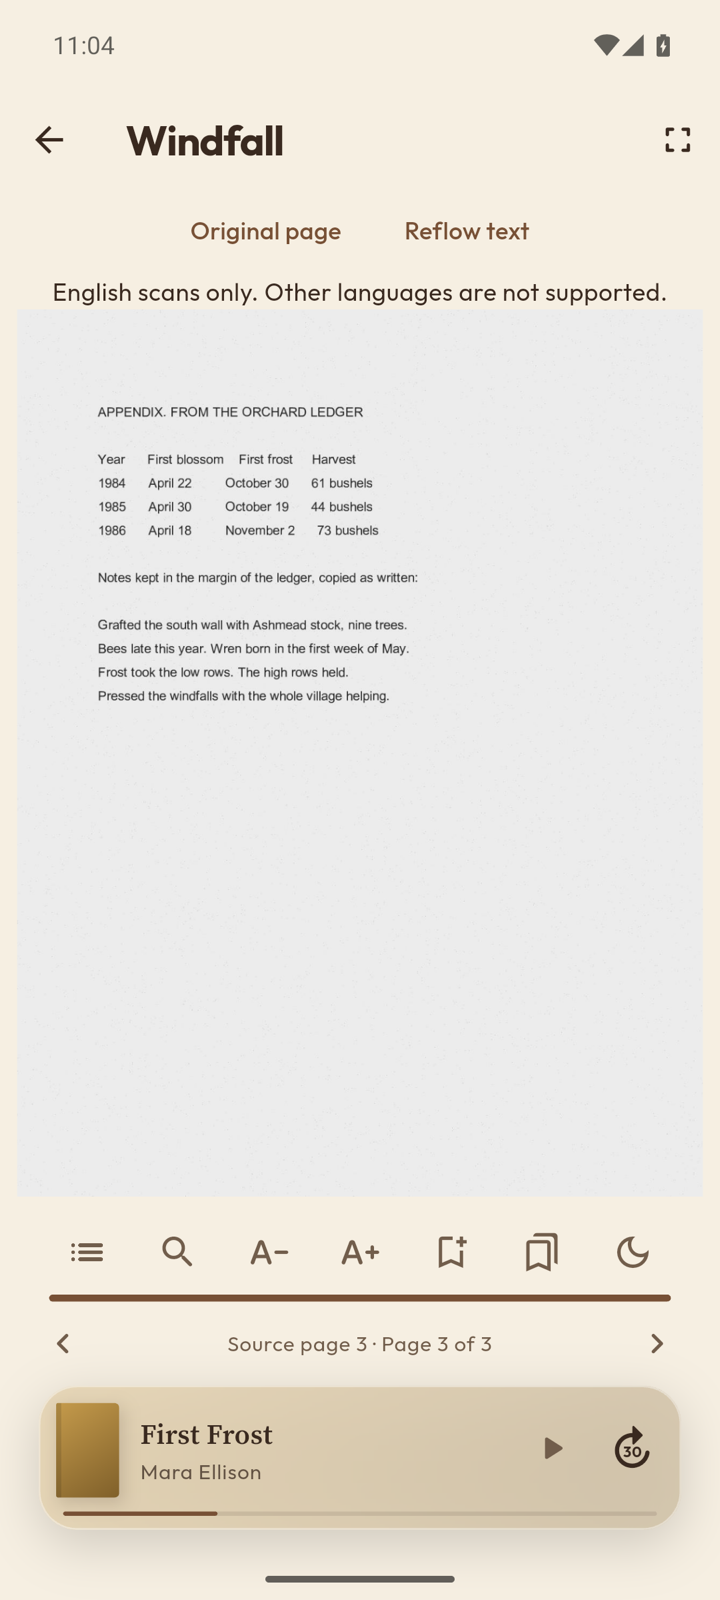
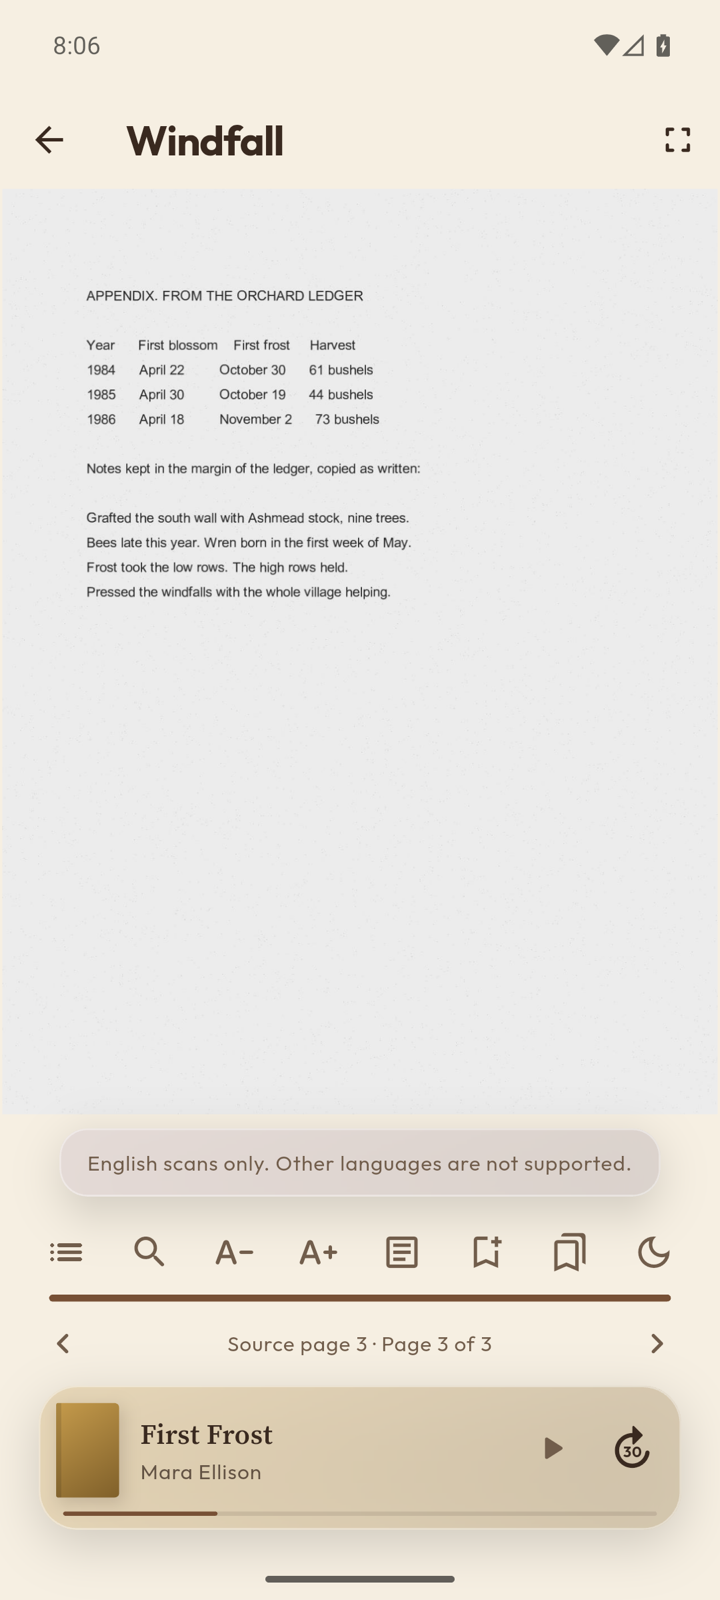
Show the PDF reflow toggle and the recognition layer in the README
Replace the two PDF reader screenshots with shots of the new bottom bar,
and add a shot of the glass layer that dims a page during recognition.
All three come from the showcase fixture on the bookfin-api36 emulator.

diff --git a/README.md b/README.md
@@ -93,9 +93,10 @@ The library in them is made-up test data from `tool/showcase_fixture.dart`.
 ### Read EPUB, MOBI and PDF
 
 <p align="center">
-  <img src="docs/screenshots/reader-epub.png" alt="An EPUB book open in the reader" width="260">
-  <img src="docs/screenshots/reader-pdf.png" alt="A scanned PDF page in the reader" width="260">
-  <img src="docs/screenshots/reader-reflow.png" alt="The same scanned page as reflowed text after OCR" width="260">
+  <img src="docs/screenshots/reader-epub.png" alt="An EPUB book open in the reader" width="195">
+  <img src="docs/screenshots/reader-recognizing.png" alt="A scanned PDF page dimmed under a card that says Recognizing English text" width="195">
+  <img src="docs/screenshots/reader-pdf.png" alt="The scanned PDF page in the reader, with the Reflow text button in the bottom bar" width="195">
+  <img src="docs/screenshots/reader-reflow.png" alt="The same scanned page as reflowed text after OCR" width="195">
 </p>
 
 - The reader opens EPUB, unencrypted MOBI, and PDF files.
